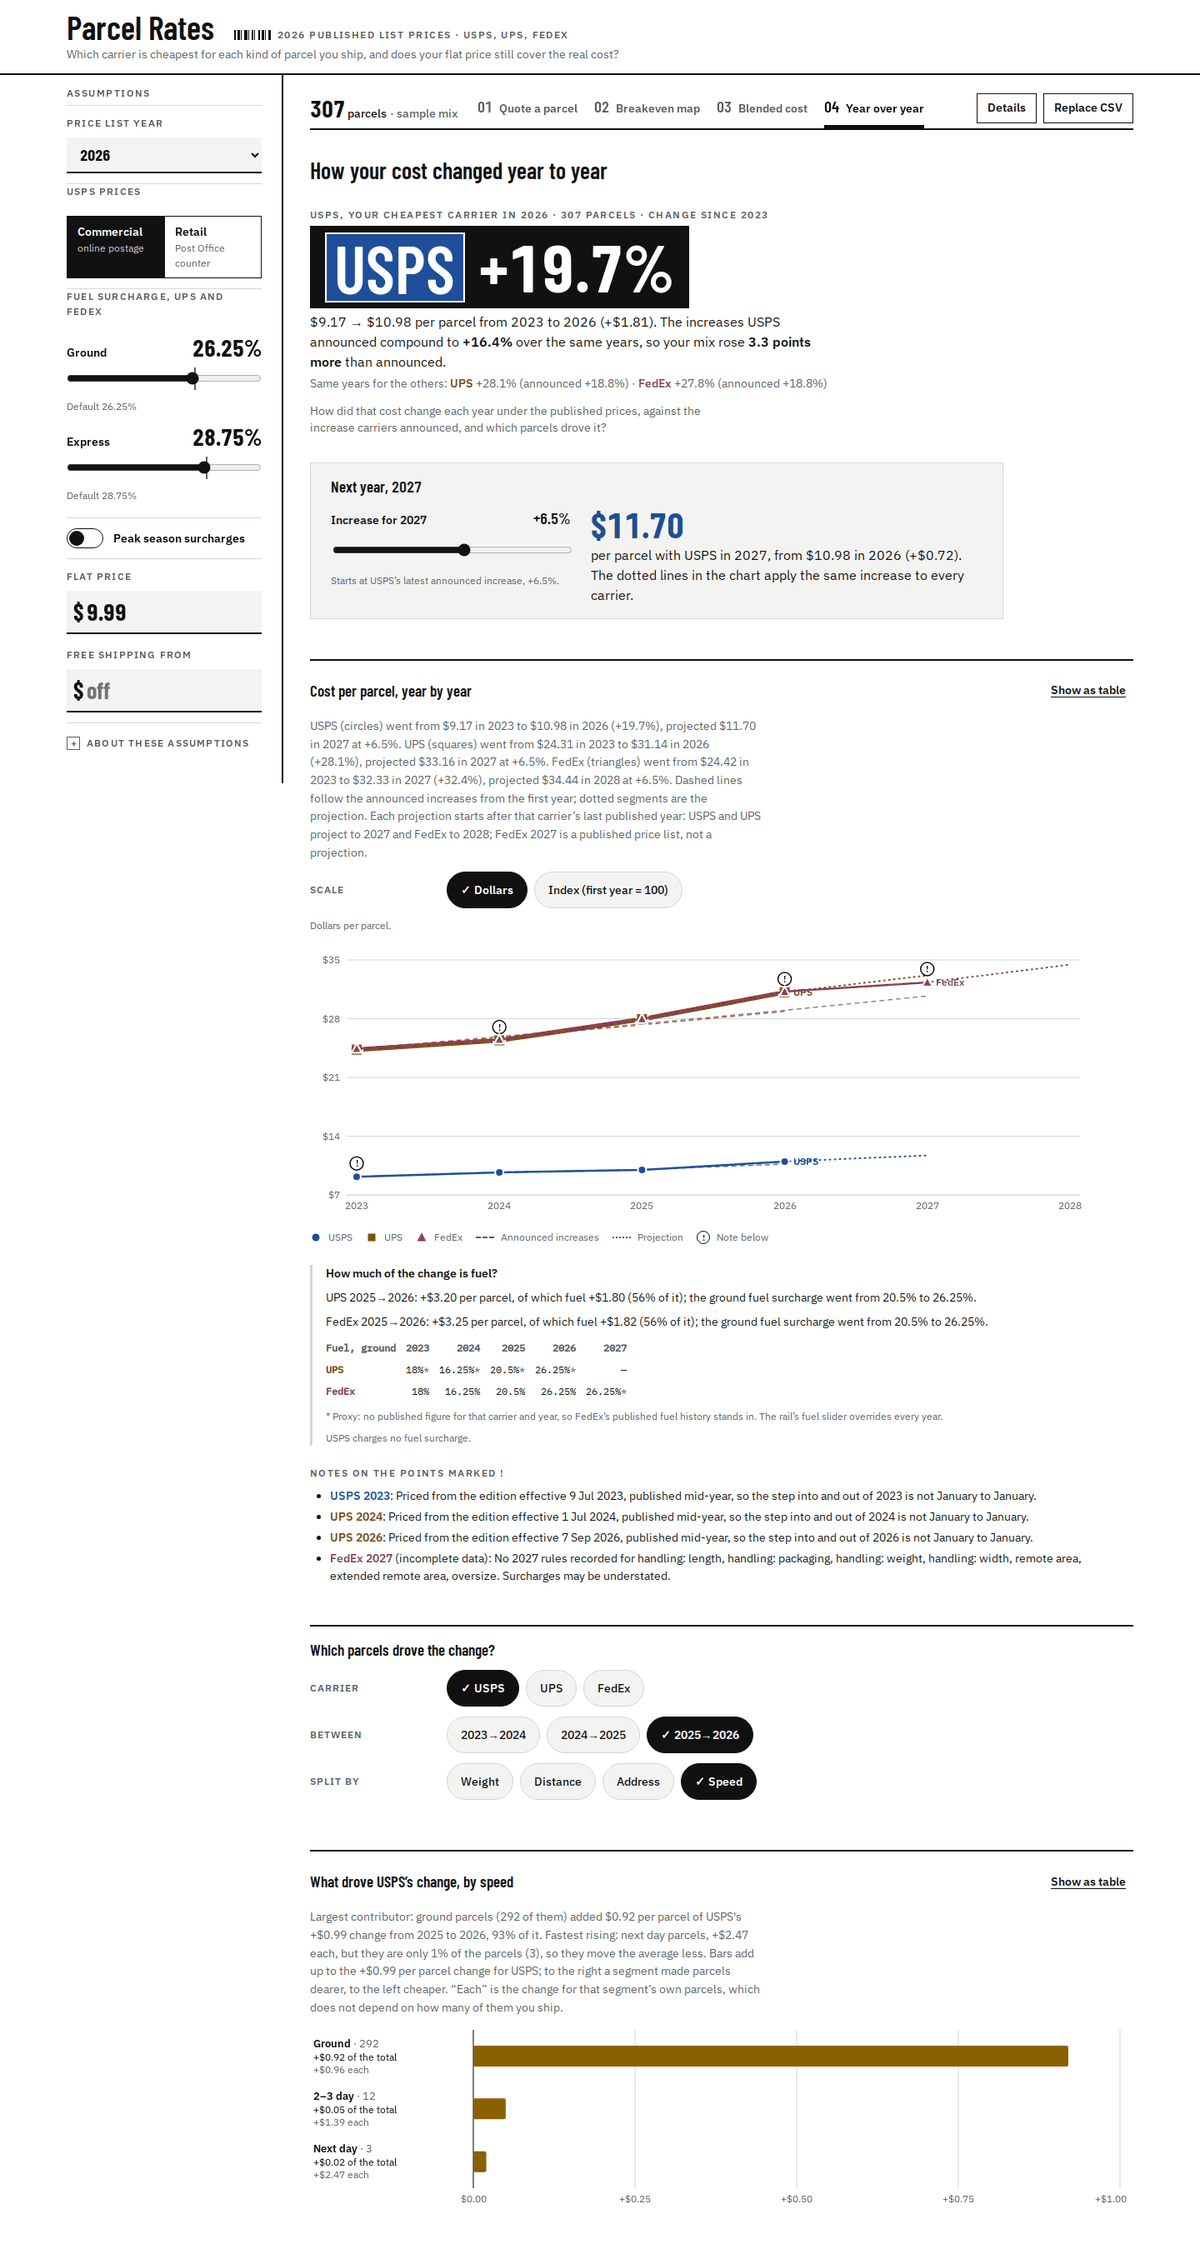
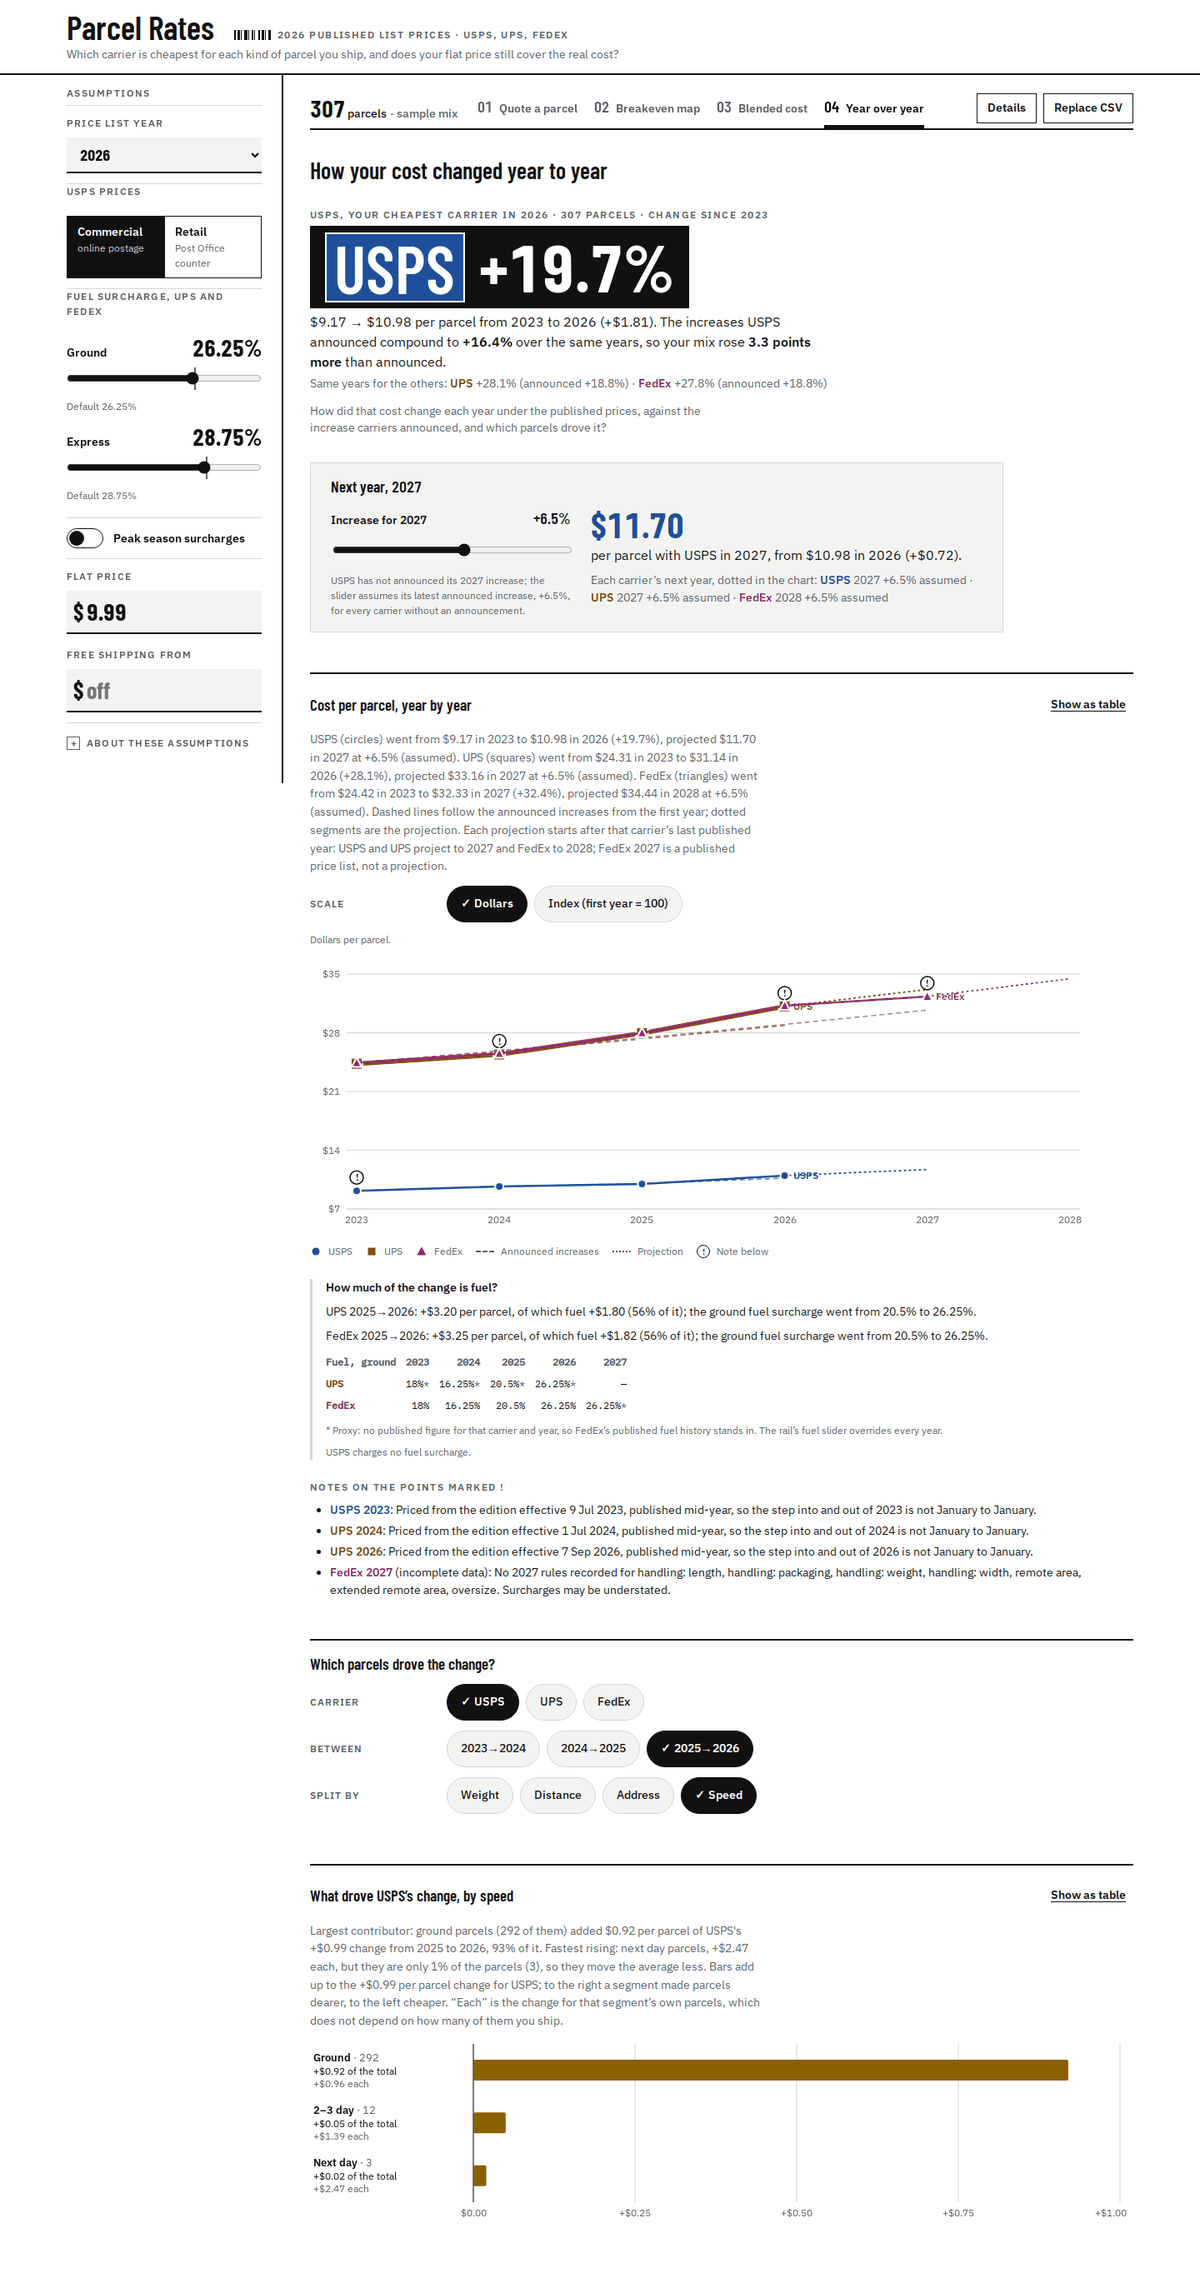
docs: per-carrier projection and the announcement watcher in API, README, DESIGN and DECISIONS; screenshots

diff --git a/README.md b/README.md
@@ -90,7 +90,7 @@ cost once surcharges and yearly price increases are included.
 | 1 | For one parcel (weight, size, distance, home or business, speed), which service is cheapest once surcharges are included, and what are the line items? | The cheapest total for the chosen speed comes first, with its saving over the next cheapest and the margin against your price. Below it, every carrier's cheapest service ranked, each with base rate, every surcharge (with its source page) and fuel. The form can start from one of your loaded parcels. |
 | 2 | Where are the breakeven points between the Postal Service and FedEx or UPS ground, by weight and distance? | A weight by distance heatmap coloured by the cheapest ground carrier, for home or business delivery, with a heavy line where USPS stops winning and a plain-words readout of the breakeven weights; every cell's prices on hover, tap or focus, and the grid as a table. |
 | 3 | For the whole parcel set, what is the blended cost per parcel with each carrier, and how much of it is surcharges? | The cheapest single carrier's cost per parcel and the "best mix" (cheapest carrier per parcel), then a yes or no on whether your shipping price covers the cost, the margin per parcel and the share shipped at a loss per carrier. A stacked chart (or table) splits the cost into base, the largest surcharges and fuel. Chips narrow everything to one kind of parcel (weight, distance, home or business, speed). |
-| 4 | How did that blended cost change year by year, compared with the average increase the carriers announced, and which parcels drove it? | The cheapest carrier's change since the first year against the compounded announced increases, a year by year chart (dollars or index) with the announced path, how much of the biggest rise was fuel, the segments that drove each step, and a next-year slider that projects the cost. |
+| 4 | How did that blended cost change year by year, compared with the average increase the carriers announced, and which parcels drove it? | The cheapest carrier's change since the first year against the compounded announced increases, a year by year chart (dollars or index) with the announced path, how much of the biggest rise was fuel, the segments that drove each step, and each carrier's next year projected from the increase it announced, where it has, with a slider for the others that can also override all of them. |
 
 Global controls: price year, USPS rate card, fuel surcharge override, peak
 season toggle, the flat price charged per parcel, and an optional "free shipping
@@ -153,6 +153,18 @@ uv run python -m data.pipeline.usps
 uv run python -m data.pipeline.ups
 uv run python -m data.pipeline.fedex
 uv run python -m data.pipeline.report_changes # rewrites docs/data/RULE_CHANGES.md
+```
+
+**Next-year announcements** arrive before the price lists. A watcher finds
+them by rule (the USPS January price release, the dated UPS GRI table, the
+FedEx rate-changes page), live first and then the latest Wayback capture,
+saves each source to `data/raw` with a manifest row, and records the
+percentage with its verbatim quote in `data/collect/announcements_found.csv`,
+which the carrier pipelines merge:
+
+```sh
+uv run python -m data.collect.announcements --check   # report what is announced for next year
+uv run python -m data.collect.announcements           # record it, then rerun data.pipeline.<carrier>
 ```
 
 Base rates are parsed. Surcharges, fuel defaults, announced increases,

diff --git a/docs/API.md b/docs/API.md
@@ -134,12 +134,17 @@ rows add `carrier` and `services_used` (service_id -> parcels), `best_mix`
 adds `parcels_by_carrier`. Everything is weighted by `quantity`.
 
 ### POST /api/yearly  (question 4)
-Request `{ parcels: Parcel[], controls: Controls, next_year_increase_percent?: number }`.
+Request `{ parcels: Parcel[], controls: Controls, next_year_increase_percent?: number, next_year_override?: boolean }`.
 Response per carrier and year: blended cost per parcel under that year's
 prices and rules, the year-over-year change, the carrier's announced average
 increase for comparison, and the driver breakdown: for each parcel segment
 (weight band, zone band, residential, speed), its contribution to the change
-in dollars per parcel. Optional projected next year from the slider.
+in dollars per parcel. Each carrier also gets a projected next year: the year
+after its latest price list, at the increase the carrier announced for that
+year when the data has one (`basis: "announced"`), otherwise at
+`next_year_increase_percent` (`"assumed"`); with `next_year_override: true`
+the percentage applies to every carrier (`"override"`). No announcement and no
+percentage: `projected` is null.
 
 Rules: each year is priced at its own base-rate effective date per carrier
 (December 10 of that year when `peak`); `controls.as_of` and `controls.year`
@@ -149,7 +154,9 @@ carrier can ship in every one of its years are compared (`parcels_used`,
 
 Shape: `YearlyResponse` in `backend/app/api/models.py`: `carriers[] {carrier,
 parcels_used, parcels_excluded, years[], projected}`; `projected` is
-`{year, increase_percent, cost_per_parcel}` or `null`. Each year row:
+`{year, increase_percent, cost_per_parcel, basis, announced_percent,
+source_type, source_files}` or `null` (`announced_percent` is the carrier's own
+figure for that year whatever the basis, null when none). Each year row:
 `year`, `as_of`, `cost_per_parcel`, `summary` (the blended `Summary`),
 `services_used`, `change_vs_previous {from_year, dollars_per_parcel, percent}`
 (null for the first year), `announced_increase {percent, basis, services,

diff --git a/docs/DECISIONS.md b/docs/DECISIONS.md
@@ -272,6 +272,28 @@ before any parser agent was dispatched. From this point every big step
 - Q1 prices one parcel against the flat price and does not take an order
   value; the rule applies to the parcel-set views (Q3 margins).
 
+## 2026-10-23 — Next year from each carrier's own announcement (issue #11)
+
+- Q4 already projected a next year, but with one slider percentage for every
+  carrier. Each carrier now projects the year after its own latest price list
+  (FedEx 2028, UPS and USPS 2027) at the increase it announced for that year
+  when the data has one; the slider is the assumption for the others and,
+  once moved, an override for all, with a reset back to the announcements.
+- As of 2026-10-23 nothing beyond the loaded price lists is announced: UPS's
+  2027 figure was pending (it announced 2026 on November 4, 2025) and USPS had
+  not filed January 2027 prices. So today every projection is "assumed", and
+  the UI says so per carrier.
+- Owner decision: build the mechanism and a scripted watcher rather than wait.
+  `data/collect/announcements.py` finds announcements by rule with no agent
+  involved: the USPS January price release (primary), the dated GRI table on
+  ebb Logistics for UPS (secondary; UPS's own pages render client-side and
+  carry no text) and the FedEx rate-changes page (primary, via the latest
+  Wayback capture because the live page serves a bot block with status 200).
+  It saves each source with a manifest row and records the verbatim quote;
+  the pipelines merge found rows only where the curated rules are silent, and
+  the citation test checks each quote. Run against today's pages, it finds
+  FedEx 5.9 % for 2027 with exactly the curated quote, and nothing else.
+
 ## Decisions changed after reviewing agent output
 
 | Decision | What the agent produced | What changed, and why | Where |

diff --git a/frontend/DESIGN.md b/frontend/DESIGN.md
@@ -191,8 +191,13 @@ screen. Then the stacked cost split.
 **Q4, year over year.** Answer first: for the carrier cheapest in the latest
 year every carrier publishes, the percent change from its first year, with the
 dollars and the announced increases compounded over the same years. A
-next-year slider (default: that carrier's latest announced increase) sits in a
-raised `--sheet` panel with the projected cost. The line chart uses solid
+next-year panel in a raised `--sheet` panel projects each carrier's year after
+its latest price list: at the carrier's announced increase where the data has
+one, otherwise at the slider (default: the pick carrier's latest announced
+increase) as an assumption; moving the slider overrides every carrier and
+"Reset" hands back to the announcements. A line under the figure names each
+carrier's projected year, percentage and basis (announced, assumed, your
+override), and the chart summary and table repeat the basis. The line chart uses solid
 carrier lines with a marker shape per carrier (USPS circle, UPS square, FedEx
 triangle; blue and purple are close under protanopia, see the validator note
 below), dashed lines for the announced-increase path and dotted segments for
